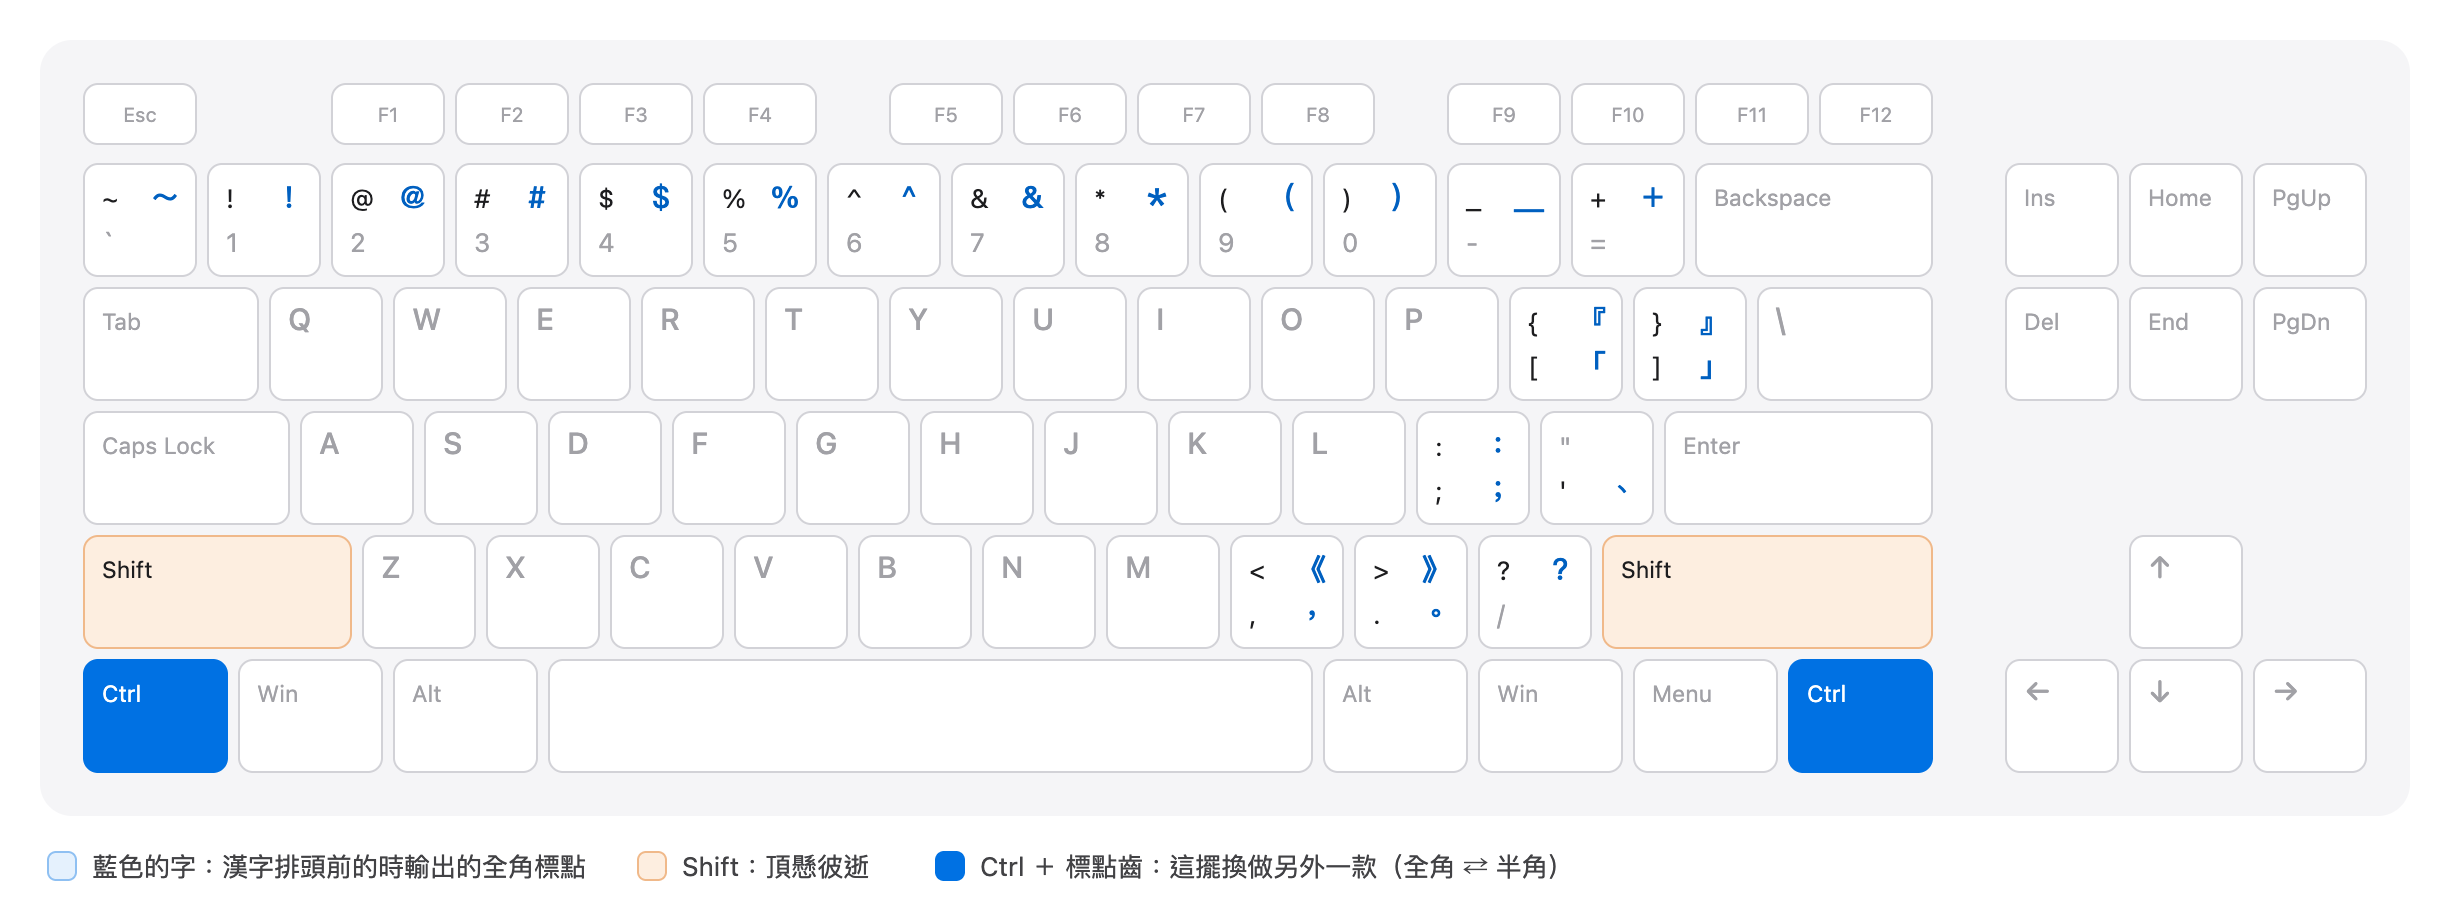
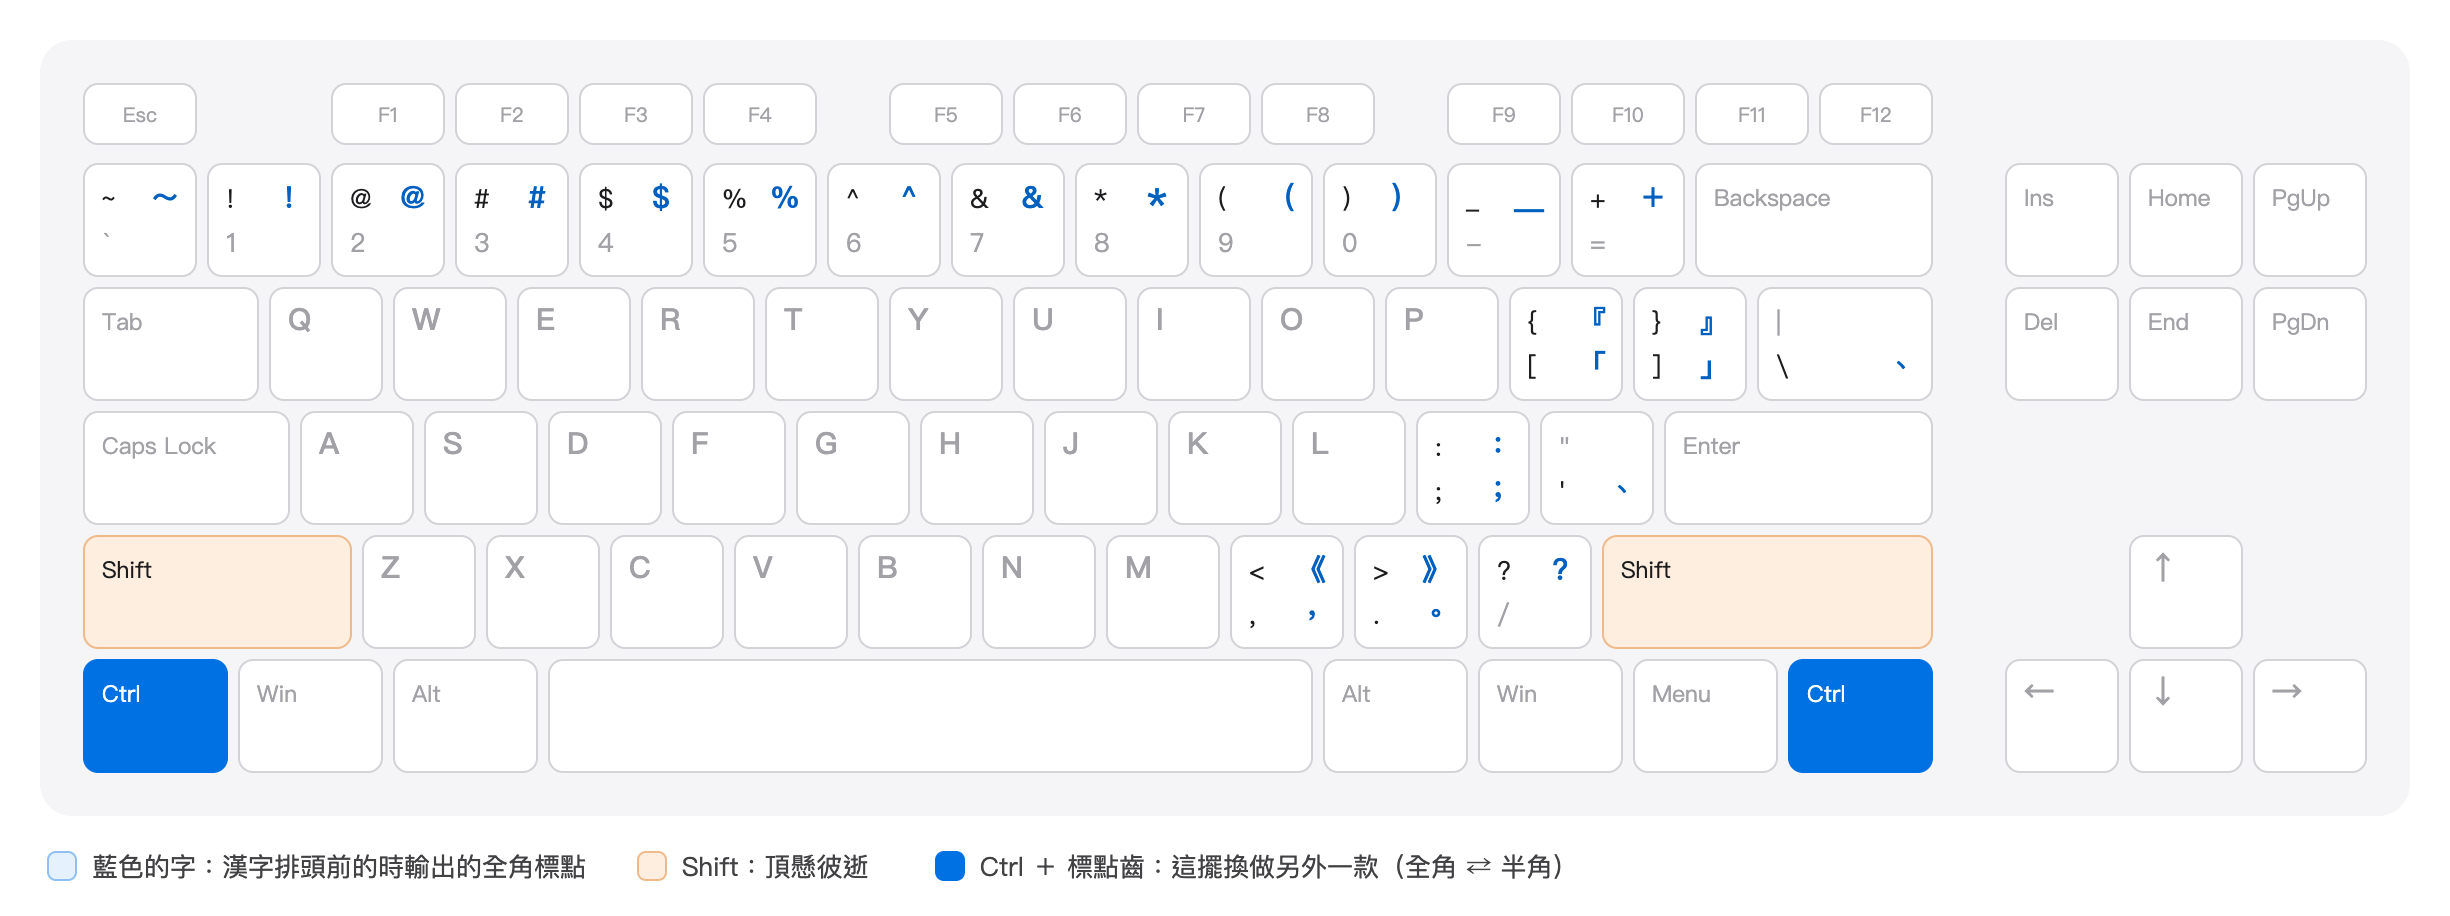
feat(desktop): type ideographic comma with backslash

diff --git a/macos/Tests/TaigiInputMethodCoreTests/FullWidthPunctuationControllerTests.swift b/macos/Tests/TaigiInputMethodCoreTests/FullWidthPunctuationControllerTests.swift
@@ -23,14 +23,16 @@ final class FullWidthPunctuationControllerTests: XCTestCase {
     // MARK: - Outside a composition (the consumed pass-through)
 
     func testPunctuationOutsideAComposition_insertsTheFullWidthForm() throws {
-        let session = try makeSession(configure: { $0.storedIsHanjiFirst = true })
+        for (typed, mark) in [(",", "，"), ("'", "、"), ("\\", "、")] {
+            let session = try makeSession(configure: { $0.storedIsHanjiFirst = true })
 
-        let handled = try session.controller.handle(
-            TestFixtures.keyDownEvent(characters: ","), client: session.client,
-        )
+            let handled = try session.controller.handle(
+                TestFixtures.keyDownEvent(characters: typed), client: session.client,
+            )
 
-        XCTAssertTrue(handled, "the mapped key is consumed, not passed to the host")
-        XCTAssertEqual(session.client.insertedTexts, ["，"])
+            XCTAssertTrue(handled, typed)
+            XCTAssertEqual(session.client.insertedTexts, [mark])
+        }
     }
 
     func testAHostChord_isNeverMapped() throws {
@@ -48,14 +50,16 @@ final class FullWidthPunctuationControllerTests: XCTestCase {
 
     func testRomanFirstMode_passesPunctuationThrough() throws {
         // Opted into: the shipped default is hanji-first (2026-09-18).
-        let session = try makeSession(configure: { $0.storedIsHanjiFirst = false })
+        for typed in [",", "'", "\\", "|"] {
+            let session = try makeSession(configure: { $0.storedIsHanjiFirst = false })
 
-        let handled = try session.controller.handle(
-            TestFixtures.keyDownEvent(characters: ","), client: session.client,
-        )
+            let handled = try session.controller.handle(
+                TestFixtures.keyDownEvent(characters: typed), client: session.client,
+            )
 
-        XCTAssertFalse(handled, "roman-first output keeps the host's half-width comma")
-        XCTAssertEqual(session.client.insertedTexts, [])
+            XCTAssertFalse(handled, typed)
+            XCTAssertEqual(session.client.insertedTexts, [])
+        }
     }
 
     /// Hanji with Romanization forces the candidate projection hanji-first, but the punctuation
@@ -150,15 +154,17 @@ final class FullWidthPunctuationControllerTests: XCTestCase {
         // Auto-space is OFF by default and is what puts the trailing space in
         // `taigi？ `, so this case turns it on to reach that site.
         try withHanjiFirst(true) {
-            let session = try composedSession(configure: {
-                $0.storedIsHanjiFirst = true
-                $0.isAutoSpaceEnabled = true
-            })
+            for (typed, mark) in [("?", "？"), ("'", "、"), ("\\", "、")] {
+                let session = try composedSession(configure: {
+                    $0.storedIsHanjiFirst = true
+                    $0.isAutoSpaceEnabled = true
+                })
 
-            _ = try session.controller.handle(TestFixtures.keyDownEvent(characters: "?"), client: session.client)
+                _ = try session.controller.handle(TestFixtures.keyDownEvent(characters: typed), client: session.client)
 
-            XCTAssertEqual(session.client.insertedTexts.count, 1, "commit and punctuation stay one mutation")
-            XCTAssertEqual(session.client.insertedTexts.last, "taigi？ ")
+                XCTAssertEqual(session.client.insertedTexts.count, 1, "commit and punctuation stay one mutation")
+                XCTAssertEqual(session.client.insertedTexts.last, "taigi\(mark) ")
+            }
         }
     }
 
@@ -239,7 +245,7 @@ final class FullWidthPunctuationControllerTests: XCTestCase {
     func testUnderTps_controlPunctuationTypesTheFullWidthMark() throws {
         let session = try makeSession(configure: { _ = $0.switchInputMode(.pick(.tps)) })
 
-        for (characters, unmodified, expected) in [(",", ",", "，"), ("\u{1B}", "[", "「")] {
+        for (characters, unmodified, expected) in [(",", ",", "，"), ("\u{1B}", "[", "「"), ("\u{1C}", "\\", "、")] {
             session.client.clearWrites()
             let handled = try session.controller.handle(
                 TestFixtures.keyDownEvent(

diff --git a/macos/Sources/TaigiInputMethodCore/Policies/FullWidthPunctuation.swift b/macos/Sources/TaigiInputMethodCore/Policies/FullWidthPunctuation.swift
@@ -29,6 +29,7 @@ enum FullWidthPunctuation {
     /// syllable separator, letters spell the romanization, and the straight
     /// double quote serves as both opening and closing so a one-to-one map
     /// cannot pick a side (the same reason the engine's auto-space attaching set excludes it).
+    /// Backslash also types the ideographic comma, alongside the MOE apostrophe shortcut.
     private static let map: [Character: String] = [
         ",": "，", ".": "。", "?": "？", "!": "！",
         ";": "；", ":": "：",
@@ -36,7 +37,7 @@ enum FullWidthPunctuation {
         "[": "「", "]": "」",
         "{": "『", "}": "』",
         "<": "《", ">": "》",
-        "'": "、",
+        "'": "、", "\\": "、",
         // The shifted number row (`⇧2`…`⇧8`, `⇧-`, `⇧=`): symbols the MOE table
         // also writes full-width. `!` `(` `)` above complete the row; `~` (⇧ on
         // the backtick key) is its first key (user report 2026-09-28).

diff --git a/macos/Tests/TaigiInputMethodCoreTests/SymbolTableTests.swift b/macos/Tests/TaigiInputMethodCoreTests/SymbolTableTests.swift
@@ -55,7 +55,7 @@ final class SymbolTableTests: XCTestCase {
         // The keys `FullWidthPunctuation` maps; a key the policy does not map
         // answers nil and is skipped, so this reads the policy rather than
         // restating it.
-        for mapped in ",.?!;:()[]{}<>'~@#$%^&*_+".compactMap({ FullWidthPunctuation.mapped(String($0)) }) {
+        for mapped in ",.?!;:()[]{}<>'\\~@#$%^&*_+".compactMap({ FullWidthPunctuation.mapped(String($0)) }) {
             XCTAssertTrue(
                 punctuation.contains(mapped) || brackets.contains(mapped),
                 "\(mapped) is typed by the full-width map but not offered by the picker",

diff --git a/macos/Tests/TaigiInputMethodCoreTests/FullWidthPunctuationTests.swift b/macos/Tests/TaigiInputMethodCoreTests/FullWidthPunctuationTests.swift
@@ -18,7 +18,7 @@ final class FullWidthPunctuationTests: XCTestCase {
             "[": "「", "]": "」",
             "{": "『", "}": "』",
             "<": "《", ">": "》",
-            "'": "、",
+            "'": "、", "\\": "、",
             "~": "～", "@": "＠", "#": "＃", "$": "＄", "%": "％", "^": "＾", "&": "＆", "*": "＊",
             "_": "＿", "+": "＋",
         ]

diff --git a/desktop/crates/taigi-desktop-core/tests/intent_executor.rs b/desktop/crates/taigi-desktop-core/tests/intent_executor.rs
@@ -14,9 +14,10 @@ use taigi_desktop_core::composing::{
 use taigi_desktop_core::dictionary_artifacts::DictionaryArtifacts;
 use taigi_desktop_core::engine::{self, Effect};
 use taigi_desktop_core::keys::{
-    CandidateNavigation, CaretDirection, ComposingKeyIntent, KeyEventSnapshot, KeyModifiers,
-    TpsKeyCapIndex,
+    CandidateNavigation, CaretDirection, ComposingKeyBindings, ComposingKeyIntent,
+    KeyEventSnapshot, KeyModifiers, TpsKeyCapIndex,
 };
+use taigi_desktop_core::platform::DesktopPlatform;
 use taigi_desktop_core::settings::{keys, InputMode, SettingsDocument, StaticSettingsProvider};
 
 /// One lock, one lexicon install: the engine is one per process.
@@ -276,6 +277,49 @@ fn half_width_punctuation_outside_a_composition_is_the_clients() {
     rig.surface.can_swap = false;
     assert!(!rig.run(ComposingKeyIntent::PassThrough, &comma()));
     assert_eq!(rig.calls(), ["swap \", \""]);
+}
+
+#[test]
+fn ideographic_comma_keys_follow_the_output_mode_idle_and_composing() {
+    for platform in [
+        DesktopPlatform::MacOS,
+        DesktopPlatform::Windows,
+        DesktopPlatform::Linux,
+    ] {
+        for hanji_first in [true, false] {
+            for typed in ["\\", "'"] {
+                let mut rig = new_rig(false);
+                rig.settings.set_bool(&keys::IS_HANJI_FIRST, hanji_first);
+                let bindings = ComposingKeyBindings::from_document(&rig.settings, platform);
+                let key = KeyEventSnapshot::text(typed, KeyModifiers::NONE);
+                let intent = ComposingKeyIntent::intent(&key, false, false, &bindings, platform);
+                assert_eq!(rig.run(intent, &key), hanji_first);
+                let mark = if hanji_first { "、" } else { typed };
+                assert_eq!(
+                    rig.calls(),
+                    if hanji_first {
+                        vec!["insert \"、\""]
+                    } else {
+                        vec![]
+                    }
+                );
+
+                rig.type_word("ho");
+                let intent = ComposingKeyIntent::intent(
+                    &key,
+                    true,
+                    !rig.list.is_empty(),
+                    &bindings,
+                    platform,
+                );
+                assert!(rig.run(intent, &key));
+                assert_eq!(
+                    rig.calls(),
+                    [format!("commit ho{mark}"), "list closed".into()]
+                );
+            }
+        }
+    }
 }
 
 #[test]
@@ -682,14 +726,21 @@ fn tps_a_flipped_slot_commits_the_cells_own_hanji_never_the_tl() {
 }
 
 #[test]
-fn tps_ctrl_comma_writes_the_full_width_mark() {
+fn tps_ctrl_punctuation_writes_the_full_width_mark() {
     // trace: under TPS the derived width is full, so the chord's key maps:
     // `policies::full_width_mapped(",")` → `，`; the swap is tried first and
     // the surface refuses it.
-    let mut rig = new_tps_rig();
-    let ctrl_comma = KeyEventSnapshot::chord(Some(","), ",", KeyModifiers::CONTROL);
-    assert!(rig.run(ComposingKeyIntent::PassThrough, &ctrl_comma));
-    assert_eq!(rig.calls(), ["swap \"， \"", "insert \"，\""]);
+    for (characters, unmodified, mark) in
+        [("\u{1C}", "\\", "、"), ("'", "'", "、"), (",", ",", "，")]
+    {
+        let mut rig = new_tps_rig();
+        let key = KeyEventSnapshot::chord(Some(characters), unmodified, KeyModifiers::CONTROL);
+        assert!(rig.run(ComposingKeyIntent::PassThrough, &key));
+        assert_eq!(
+            rig.calls(),
+            [format!("swap \"{mark} \""), format!("insert \"{mark}\"")]
+        );
+    }
 }
 
 #[test]

diff --git a/desktop/crates/taigi-desktop-core/src/policies/full_width.rs b/desktop/crates/taigi-desktop-core/src/policies/full_width.rs
@@ -12,8 +12,9 @@
 /// half-width: digits (tone markers), the hyphen (syllable separator),
 /// letters, and the straight double quote (one glyph serves both sides). Plus
 /// `~` (⇧ on the backtick key): the rest of the shifted number row is here, so
-/// its first key is too (user report 2026-09-28).
-const MAP: [(char, char); 25] = [
+/// its first key is too (user report 2026-09-28), and backslash as an additional
+/// key for the ideographic comma; apostrophe keeps the MOE shortcut.
+const MAP: [(char, char); 26] = [
     (',', '，'),
     ('.', '。'),
     ('?', '？'),
@@ -29,6 +30,7 @@ const MAP: [(char, char); 25] = [
     ('<', '《'),
     ('>', '》'),
     ('\'', '、'),
+    ('\\', '、'),
     ('~', '～'),
     ('@', '＠'),
     ('#', '＃'),
@@ -70,7 +72,7 @@ mod tests {
 
     #[test]
     fn every_mapped_pair_follows_the_moe_table() {
-        // trace: the 25 rows of `MAP`, the MOE symbol shortcut table plus `~`.
+        // trace: the 26 rows of `MAP`, the MOE table plus `~` and backslash.
         for (half, full) in MAP {
             assert_eq!(
                 full_width_mapped(&half.to_string()).as_deref(),
@@ -79,8 +81,9 @@ mod tests {
         }
         assert_eq!(full_width_mapped(","), Some("，".into()));
         assert_eq!(full_width_mapped("'"), Some("、".into()));
+        assert_eq!(full_width_mapped("\\"), Some("、".into()));
         assert_eq!(full_width_mapped("~"), Some("～".into()));
-        assert_eq!(MAP.len(), 25);
+        assert_eq!(MAP.len(), 26);
     }
 
     #[test]

diff --git a/media/manual/keyboards.py b/media/manual/keyboards.py
@@ -124,6 +124,7 @@ PUNCTUATION = {
     "7": ("7", None, "&", "＆"), "8": ("8", None, "*", "＊"), "9": ("9", None, "(", "（"),
     "0": ("0", None, ")", "）"), "-": ("-", None, "_", "＿"), "=": ("=", None, "+", "＋"),
     "[": ("[", "「", "{", "『"), "]": ("]", "」", "}", "』"),
+    "\\": ("\\", "、", "|", None),
     ";": (";", "；", ":", "："), "'": ("'", "、", '"', None),
     ",": (",", "，", "<", "《"), ".": (".", "。", ">", "》"), "/": ("/", None, "?", "？"),
 }

diff --git a/desktop/crates/taigi-desktop-core/src/symbols.rs b/desktop/crates/taigi-desktop-core/src/symbols.rs
@@ -266,7 +266,7 @@ mod tests {
             .unwrap()
             .symbols
             .concat();
-        for key in ",.?!;:()[]{}<>'~@#$%^&*_+".chars() {
+        for key in ",.?!;:()[]{}<>'\\~@#$%^&*_+".chars() {
             let Some(mapped) = crate::policies::full_width_mapped(&key.to_string()) else {
                 continue;
             };

diff --git a/media/manual/README.md b/media/manual/README.md
@@ -126,7 +126,7 @@ macOS 的符號：`⌃` control、`⌥` option、`⌘` command、`⇧` shift。
 ![Windows 齒盤：逐个齒輸出的全角標點](keyboards/punctuation-windows.png)
 
 - 欲拍另外一款闊度一擺：macOS 揤 `⌃` ＋ 標點齒，Windows、Linux 揤 `Ctrl` ＋ 標點齒。親像漢字排頭前的時，`⌃` `,` 輸出半角的 `,`。`～` 無這个功能。
-- 數字、`-`、`=`、`/`、`\`、`"` 攏照原來的輸出，因為數字是聲調，`-` 是連字符。
+- 數字、`-`、`=`、`/`、`"` 攏照原來的輸出，因為數字是聲調，`-` 是連字符。
 - 選字窗有佇咧的時，`[` `]` 是換頁，`;` 是選第 9 个候選詞。
 - `` ` `` 是切換漢字／羅馬字的齒，袂輸出符號。
 
